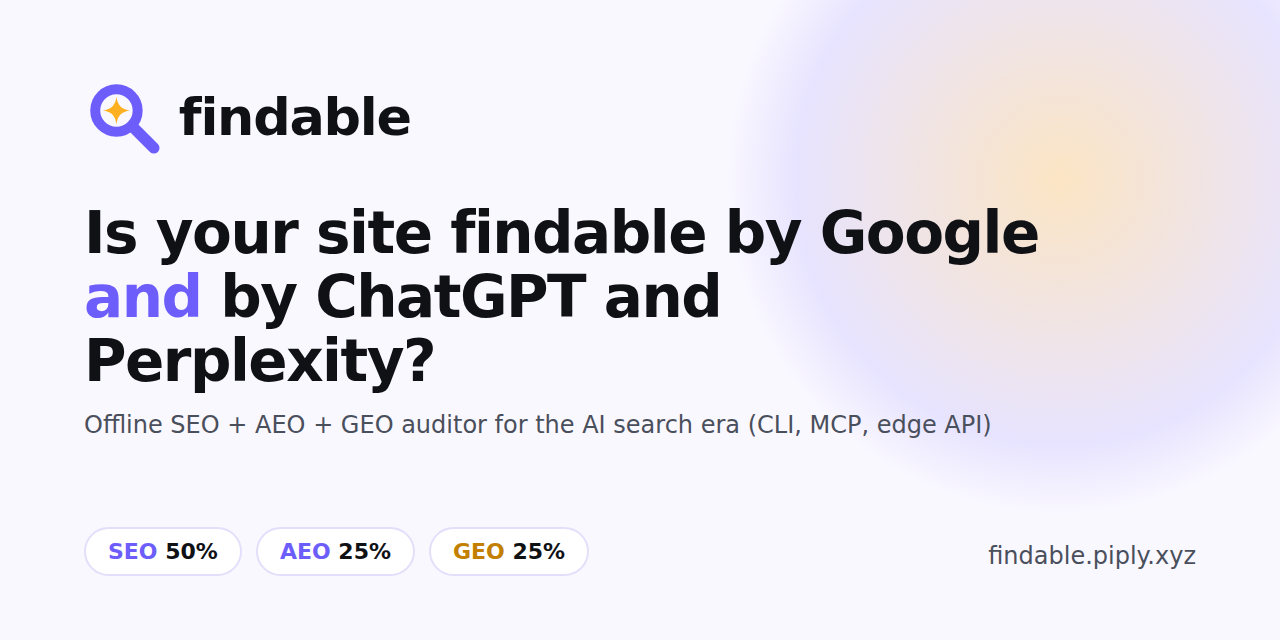
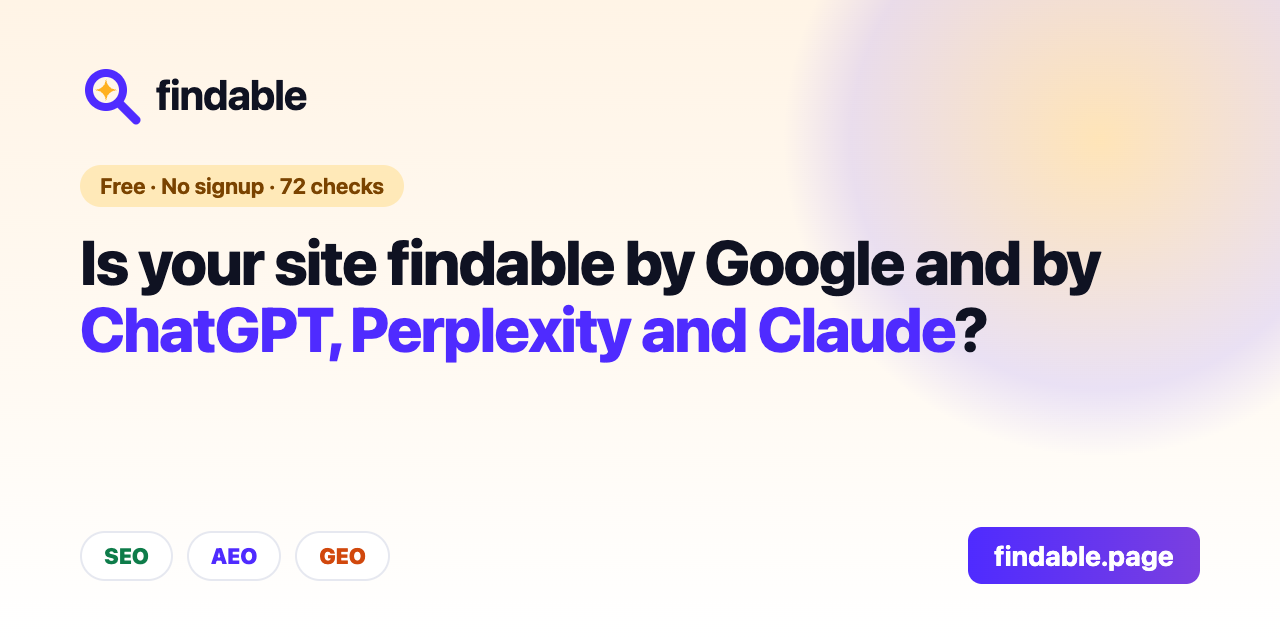
Redraw cover and og images in the current site design

diff --git a/docs/cover.html b/docs/cover.html
@@ -1,25 +1,28 @@
 <!doctype html>
 <html lang="en"><head><meta charset="utf-8"><title>findable cover</title>
 <style>
-html,body{margin:0;width:1280px;height:640px;overflow:hidden}
-body{background:#faf8ff;font-family:Inter,system-ui,-apple-system,"Segoe UI",sans-serif;color:#0f1115;position:relative}
-.glow{position:absolute;right:-120px;top:-160px;width:680px;height:680px;border-radius:50%;background:radial-gradient(circle,#ffb02044,#6d5efc22 55%,transparent 70%)}
-.wrap{position:absolute;left:84px;top:78px;width:1112px}
-svg.logo{width:337px;height:80px}
-h1{font-size:58px;line-height:1.1;letter-spacing:-1.5px;margin:40px 0 18px;max-width:1000px}
-h1 em{font-style:normal;color:#6d5efc}
-p{font-size:24px;color:#4a4f5c;margin:0;max-width:1000px}
-.pills{position:absolute;left:84px;bottom:64px;display:flex;gap:14px}
-.pill{font-size:22px;font-weight:600;padding:10px 22px;border-radius:999px;background:#fff;border:2px solid #e3dffb}
-.pill b{color:#6d5efc}.pill.a b{color:#c27f00}
-.url{position:absolute;right:84px;bottom:70px;font-size:24px;color:#4a4f5c}
+html,body{margin:0;width:100vw;height:100vh;overflow:hidden}
+body{background:linear-gradient(180deg,#fff4e6 0%,#fffaf3 60%,#fff 100%);font-family:ui-sans-serif,system-ui,-apple-system,"Segoe UI",Roboto,sans-serif;color:#0F1222;position:relative}
+.glow{position:absolute;right:-140px;top:-180px;width:640px;height:640px;border-radius:50%;background:radial-gradient(circle,#FFB02040,#4F2BFF1f 55%,transparent 70%)}
+.wrap{position:absolute;left:80px;right:80px;top:64px}
+svg.logo{width:270px;height:64px}
+.badge{display:inline-block;margin-top:34px;font-size:22px;font-weight:700;color:#7A4300;background:#FFE9B8;padding:8px 20px;border-radius:999px}
+h1{font-size:62px;line-height:1.08;letter-spacing:-1.5px;margin:22px 0 0;font-weight:800}
+h1 .hl{color:#4F2BFF}
+.foot{position:absolute;left:80px;right:80px;bottom:56px;display:flex;align-items:center;justify-content:space-between}
+.pills{display:flex;gap:14px}
+.pill{font-size:22px;font-weight:700;padding:10px 22px;border-radius:999px;background:#fff;border:2px solid #E6E8F0}
+.seo{color:#0E7C4A}.aeo{color:#4F2BFF}.geo{color:#D1480D}
+.url{font-size:28px;font-weight:700;color:#fff;background:linear-gradient(90deg,#4F2BFF,#7a3fe0);padding:12px 26px;border-radius:14px}
 </style></head><body>
 <div class="glow"></div>
 <div class="wrap">
-<svg class="logo" xmlns="http://www.w3.org/2000/svg" viewBox="0 0 270 64" role="img" aria-label="findable"><circle cx="26" cy="26" r="17" fill="none" stroke="#6d5efc" stroke-width="8"/><path d="M39 39L56 56" stroke="#6d5efc" stroke-width="9" stroke-linecap="round"/><path d="M26 15C27 22 30 25 37 26C30 27 27 30 26 37C25 30 22 27 15 26C22 25 25 22 26 15Z" fill="#ffb020"/><text x="76" y="46" font-family="Inter, system-ui, sans-serif" font-weight="700" font-size="42" letter-spacing="-1" fill="#0f1115">findable</text></svg>
-<h1>Is your site findable by Google <em>and</em> by ChatGPT and Perplexity?</h1>
-<p>Offline SEO + AEO + GEO auditor for the AI search era (CLI, MCP, edge API)</p>
+<svg class="logo" xmlns="http://www.w3.org/2000/svg" viewBox="0 0 270 64" role="img" aria-label="findable"><circle cx="26" cy="26" r="17" fill="none" stroke="#4F2BFF" stroke-width="8"/><path d="M39 39L56 56" stroke="#4F2BFF" stroke-width="9" stroke-linecap="round"/><path d="M26 15C27 22 30 25 37 26C30 27 27 30 26 37C25 30 22 27 15 26C22 25 25 22 26 15Z" fill="#FFB020"/><text x="76" y="46" font-family="system-ui, sans-serif" font-weight="700" font-size="42" letter-spacing="-1" fill="#0F1222">findable</text></svg>
+<div><span class="badge">Free · No signup · 72 checks</span></div>
+<h1>Is your site findable by Google and by <span class="hl">ChatGPT, Perplexity and Claude</span>?</h1>
 </div>
-<div class="pills"><span class="pill"><b>SEO</b> 50%</span><span class="pill"><b>AEO</b> 25%</span><span class="pill a"><b>GEO</b> 25%</span></div>
+<div class="foot">
+<div class="pills"><span class="pill"><b class="seo">SEO</b></span><span class="pill"><b class="aeo">AEO</b></span><span class="pill"><b class="geo">GEO</b></span></div>
 <div class="url">findable.page</div>
+</div>
 </body></html>
